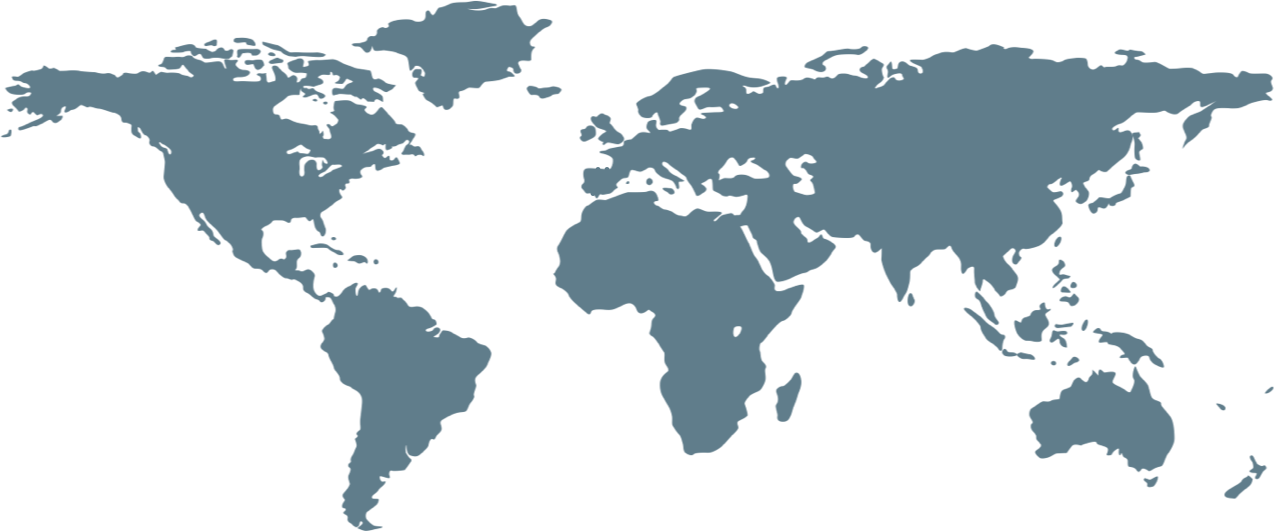
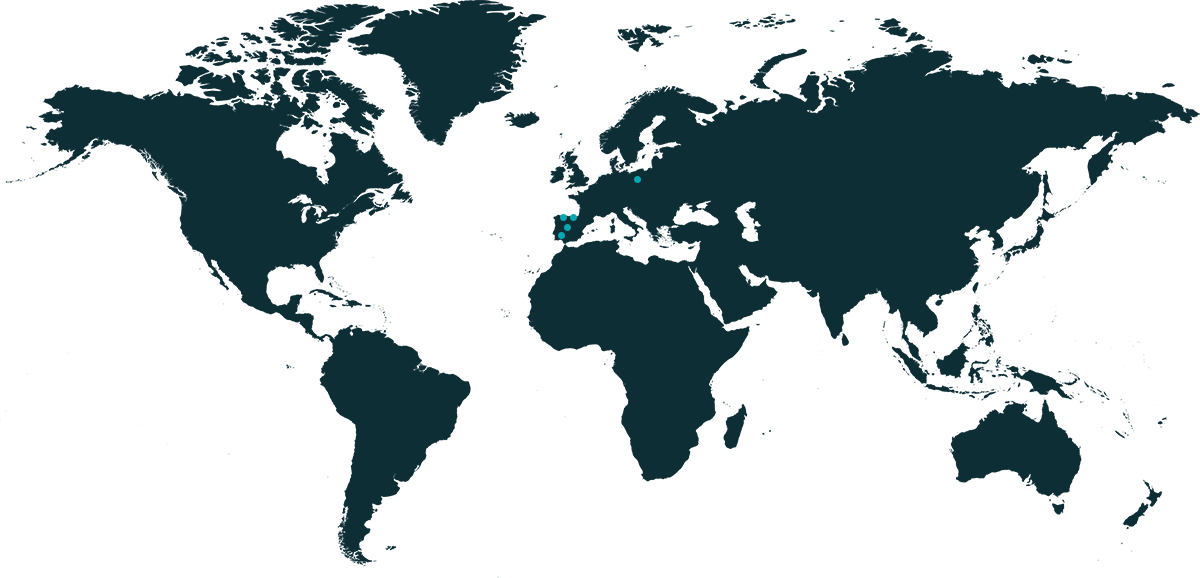
Almost ready to release!

diff --git a/source/stylesheets/core/_fonts.scss b/source/stylesheets/core/_fonts.scss
@@ -24,6 +24,12 @@ font-style:normal;font-weight:700;
 
 @font-face {
 font-family:"proxima-nova";
[1 lines of base64/hex data omitted]
+font-style:normal;font-weight:300;
+}
+
+@font-face {
+font-family:"proxima-nova";
[1 lines of base64/hex data omitted]
 font-style:italic;font-weight:400;
 }

diff --git a/source/stylesheets/modules/_articles.sass b/source/stylesheets/modules/_articles.sass
@@ -5,6 +5,11 @@ body.blog
   #main_content
     padding-bottom: 3em
     font-size: 24px
+
+    p
+      line-height: 33px
+      font-size: 22px
+      letter-spacing: 0.15px
     
     .container
       max-width: -webkit-calc(800px - (40px * 2))
@@ -58,13 +63,16 @@ body.blog
           font-size: 0.8em
 
     .pagination
+      margin: 2em 0
+      a
+        +ghost-button($color-2, #fff, .8em)
       .prev
         float: left
       .next
         float: right
 
 
-  article.blog-post
+  #main_content article.blog-post
     header
       margin: 4em 0
 
@@ -83,18 +91,24 @@ body.blog
         margin-bottom: 20px
         line-height: 1.75
 
+      h1, h2, h3, h4, h5, h6
+        margin-top: 40px
+
       p
         margin-top: 0
         margin-bottom: 30px
         line-height: 1.75
 
       code
-        background-color: #f8f8f8
-        padding: 1px 5px
+        background-color: $color-1
         font-size: 18px
+        padding: 1px 5px
 
       code.hljs
-        font-size: 16px
+        padding: 14px
+        border-radius: 1px
+        font-size: 13px
+        line-height: 20px
 
       img
         max-width: 100%
@@ -109,6 +123,7 @@ body.blog
       padding: 2em
       font-size: 0.9em
       line-height: 1.5
+
 
       &:after
         display: block
@@ -126,6 +141,11 @@ body.blog
         width: 85%
         padding-left: 1em
         box-sizing: border-box
+
+        p
+          margin: 0 auto 1em auto
+          font-size: 20px
+          line-height: 28px
 
         .links
           margin: 0

diff --git a/source/stylesheets/modules/_main_header.sass b/source/stylesheets/modules/_main_header.sass
@@ -6,7 +6,7 @@
   background-position: center center
 
   &:after
-    $base: $light-blue
+    $base: $color-2
     background: rgba($base,0.4)
     @include background-image(linear-gradient(top,rgba($base,0.2) 0,rgba($base,0.7) 60%, rgba($base,0.9) 100%))
     background-repeat: repeat-x
@@ -24,10 +24,10 @@
     width: 800px
 
   .logo
-    width: 320px
-    height: 100px
+    width: 360px
+    height: 90px
     background: url(/images/logo-white.png) no-repeat center center
-    +prefixer(background-size, contain, webkit moz ms)
+    +prefixer(background-size, contain, webkit moz ms spec)
     margin: 0 auto 1em auto
 
   .welcome
@@ -47,12 +47,12 @@
 
 body.home
   #main_header    
-    background-image: url(https://drscdn.500px.org/photo/100721115/m=2048/8525f9324f10d7dfb9a563ee920c276e)
+    background-image: url(/images/home.jpg)
 
     .welcome
       padding: 3em 0 5em
 
       h1
-        font-weight: 700
+        font-weight: 300
         color: #fff
 

diff --git a/source/stylesheets/core/_settings.sass b/source/stylesheets/core/_settings.sass
@@ -33,21 +33,31 @@ $button-font-family: 'proxima-nova', sans-serif
 // - - - - - - - - - - - - - - - - - - -
 // - - variables
 $base-border-radius: 4px
-$base-line-height: 1.7em
+$base-line-height: 1.6em
 $header-height: 3em
 
 // - - colors
-$green: #dceab2
 $gray: #CFD8DC
-$asphalt: #474350
-$blue: #c6c8ee
-$light-blue: darken(#BEF202, 5%)
-$dark-blue: darken(#1B676B, 5%)
-$pink: #ff2fa6
+$light-blue: red
+$dark-blue: blue
 $readableGray: #999
 
-$dark-gray: darken($gray, 50%)
+// $color-1: #4cdbbe
+// $color-2: #0aad95
+// $color-3: #089a84
+// $color-4: #0f312d
+// $color-5: #0a1f1c
+
+$color-1: #edf3f8
+$color-2: #08a7b2
+$color-3: #078895
+// $color-4: #0d1d29
+// $color-5: #081219
+$color-4: #0A2E36
+$color-5: #0A090C
+$color-6: #272D2D
+
 
 // - - typography
-$base-font-color: $asphalt
+$base-font-color: $color-6
 // - - grid

diff --git a/source/stylesheets/modules/_main_footer.sass b/source/stylesheets/modules/_main_footer.sass
@@ -1,10 +1,15 @@
 #main_footer
-  $base-color: $asphalt
-  background: $dark-blue
+  $base-color: $color-1
+  background: $color-5
   color: $gray
-
+  font-size: .9em
   a
-    +link(lighten($dark-blue, 30%))
+    +link($color-2)
+
+  .note
+    margin: 1.5em 0
+    font-family: $header-font-family
+    font-style: italic
 
   .sections
     +clearfix
@@ -27,6 +32,17 @@
         a
           font-size: 2.5em
 
+  .field
+    input
+      background: $color-5
+      border-color: $color-3
+      border-top: 0
+      border-left: 0
+      border-right: 0
+      border-radius: 0
+      color: $color-1
   button
-    +ghost-button(#fff, $base-color)
+    +ghost-button($color-2, $color-4)
+    width: 100%
+    margin-bottom: 1em
 

diff --git a/source/stylesheets/modules/_main_navigation.sass b/source/stylesheets/modules/_main_navigation.sass
@@ -10,13 +10,14 @@
     width: 7em
     height: $header-height
     background: url(/images/logo-white.png) no-repeat center center
-    +prefixer(background-size, contain, webkit moz ms)
+    +prefixer(background-size, contain, webkit moz ms spec)
     float: left
     vertical-align: middle
     display: block
   ul
     margin: 0
     float: right
+    text-transform: uppercase
     li
       display: inline-block
       line-height: $header-height
@@ -39,7 +40,7 @@
     position: fixed
     z-index: 100
     width: 100%
-    background: rgba($dark-blue, .9)
+    background: rgba($color-3, .9)
 
     &+*
       padding-top: $header-height

diff --git a/source/stylesheets/modules/_work_section.sass b/source/stylesheets/modules/_work_section.sass
@@ -4,18 +4,26 @@ body.work
 
   .project
     border-bottom: 1px solid darken($gray, 10%)
-
+    p
+      text-align: left
     header
       margin-top: 2em
     
+    .tool
+      font-family: $header-font-family
+      font-size: .65em
+      background: $color-1
+      padding: 5px
+      display: inline-block
+      border-radius: 4px
+      margin: 0 .2em
     .logo
       max-width: 280px
       height: auto
 
     .screenshot
-      margin: 2em 0
 
     .call-to-action
-      margin: 3em 0 2em
+      margin: 2em 0
       a
-        +ghost-button($base-font-color, #fff)
+        +ghost-button($color-2, #fff)

diff --git a/source/stylesheets/modules/_team_section.sass b/source/stylesheets/modules/_team_section.sass
@@ -1,12 +1,23 @@
 #team_section
-  background: $gray
-  color: $dark-gray
+  background: $color-1
+
+  h2
+    text-align: left
+    width: 70%
+    margin-left: auto
+    margin-right: auto
+  p
+    width: 70%
+    margin-left: auto
+    margin-right: auto
+    text-align: left
 
   .map
-    +fill-parent()
-    margin: 3em 0
-
+    margin: 2em auto 0 auto
+    max-width: 100%
+    height: auto
   .team-list
+    margin-top: 2em
     +inline-list
     li
       .avatar

diff --git a/source/stylesheets/modules/_clients_section.sass b/source/stylesheets/modules/_clients_section.sass
@@ -1,6 +1,17 @@
+#clients_section
+  background: $color-1
+
+  .action 
+    margin-top: 1em
+    a
+      +ghost-button($color-2, $color-1)
+
+
 .testimonials
+  margin-top: 2em
   position: relative
   height: 340px
+
 
   .testimonial
     position: absolute
@@ -22,6 +33,7 @@
 
     .spokesman
       color: $readableGray
+      text-align: right
 
     &.visible
       opacity: 1

diff --git a/source/stylesheets/core/_typography.sass b/source/stylesheets/core/_typography.sass
@@ -7,7 +7,8 @@ h1, h2, h3, h4, h5, h6
   font-weight: 700
   -webkit-margin-before: 0
   -webkit-margin-after: 0
-
+  -moz-osx-font-smoothing: grayscale
+  margin: 0
 h1
   font-size: 2.2em
   line-height: 1
@@ -24,6 +25,7 @@ body
 
 p
   line-height: $base-line-height
+  -moz-osx-font-smoothing: grayscale
 
 code
   font-family: 'Monaco','Consolas','Menlo',monospace

diff --git a/source/stylesheets/core/_base.sass b/source/stylesheets/core/_base.sass
@@ -23,9 +23,10 @@ a
   border-radius: $base-border-radius
   box-shadow: 0 0 0 0
   padding: .5em
-  border: 1px solid $dark-gray
+  border: 1px solid $color-2
 
 [type=submit]
-  +ghost-button($base-font-color, $gray, .8em)
+  +ghost-button($color-2, #fff, .8em)
 
-
+pre
+  margin: 0

diff --git a/source/stylesheets/modules/_hire_section.sass b/source/stylesheets/modules/_hire_section.sass
@@ -1,5 +1,5 @@
 #hire_section
-  $base-color: $light-blue
+  $base-color: $color-4
   color: #fff
   background-color: $base-color
   padding: 2em 0
@@ -11,4 +11,4 @@
   h2
     margin-right: 1em
   a
-    +ghost-button(#fff, $base-color)
+    +ghost-button($color-2, $color-4)
